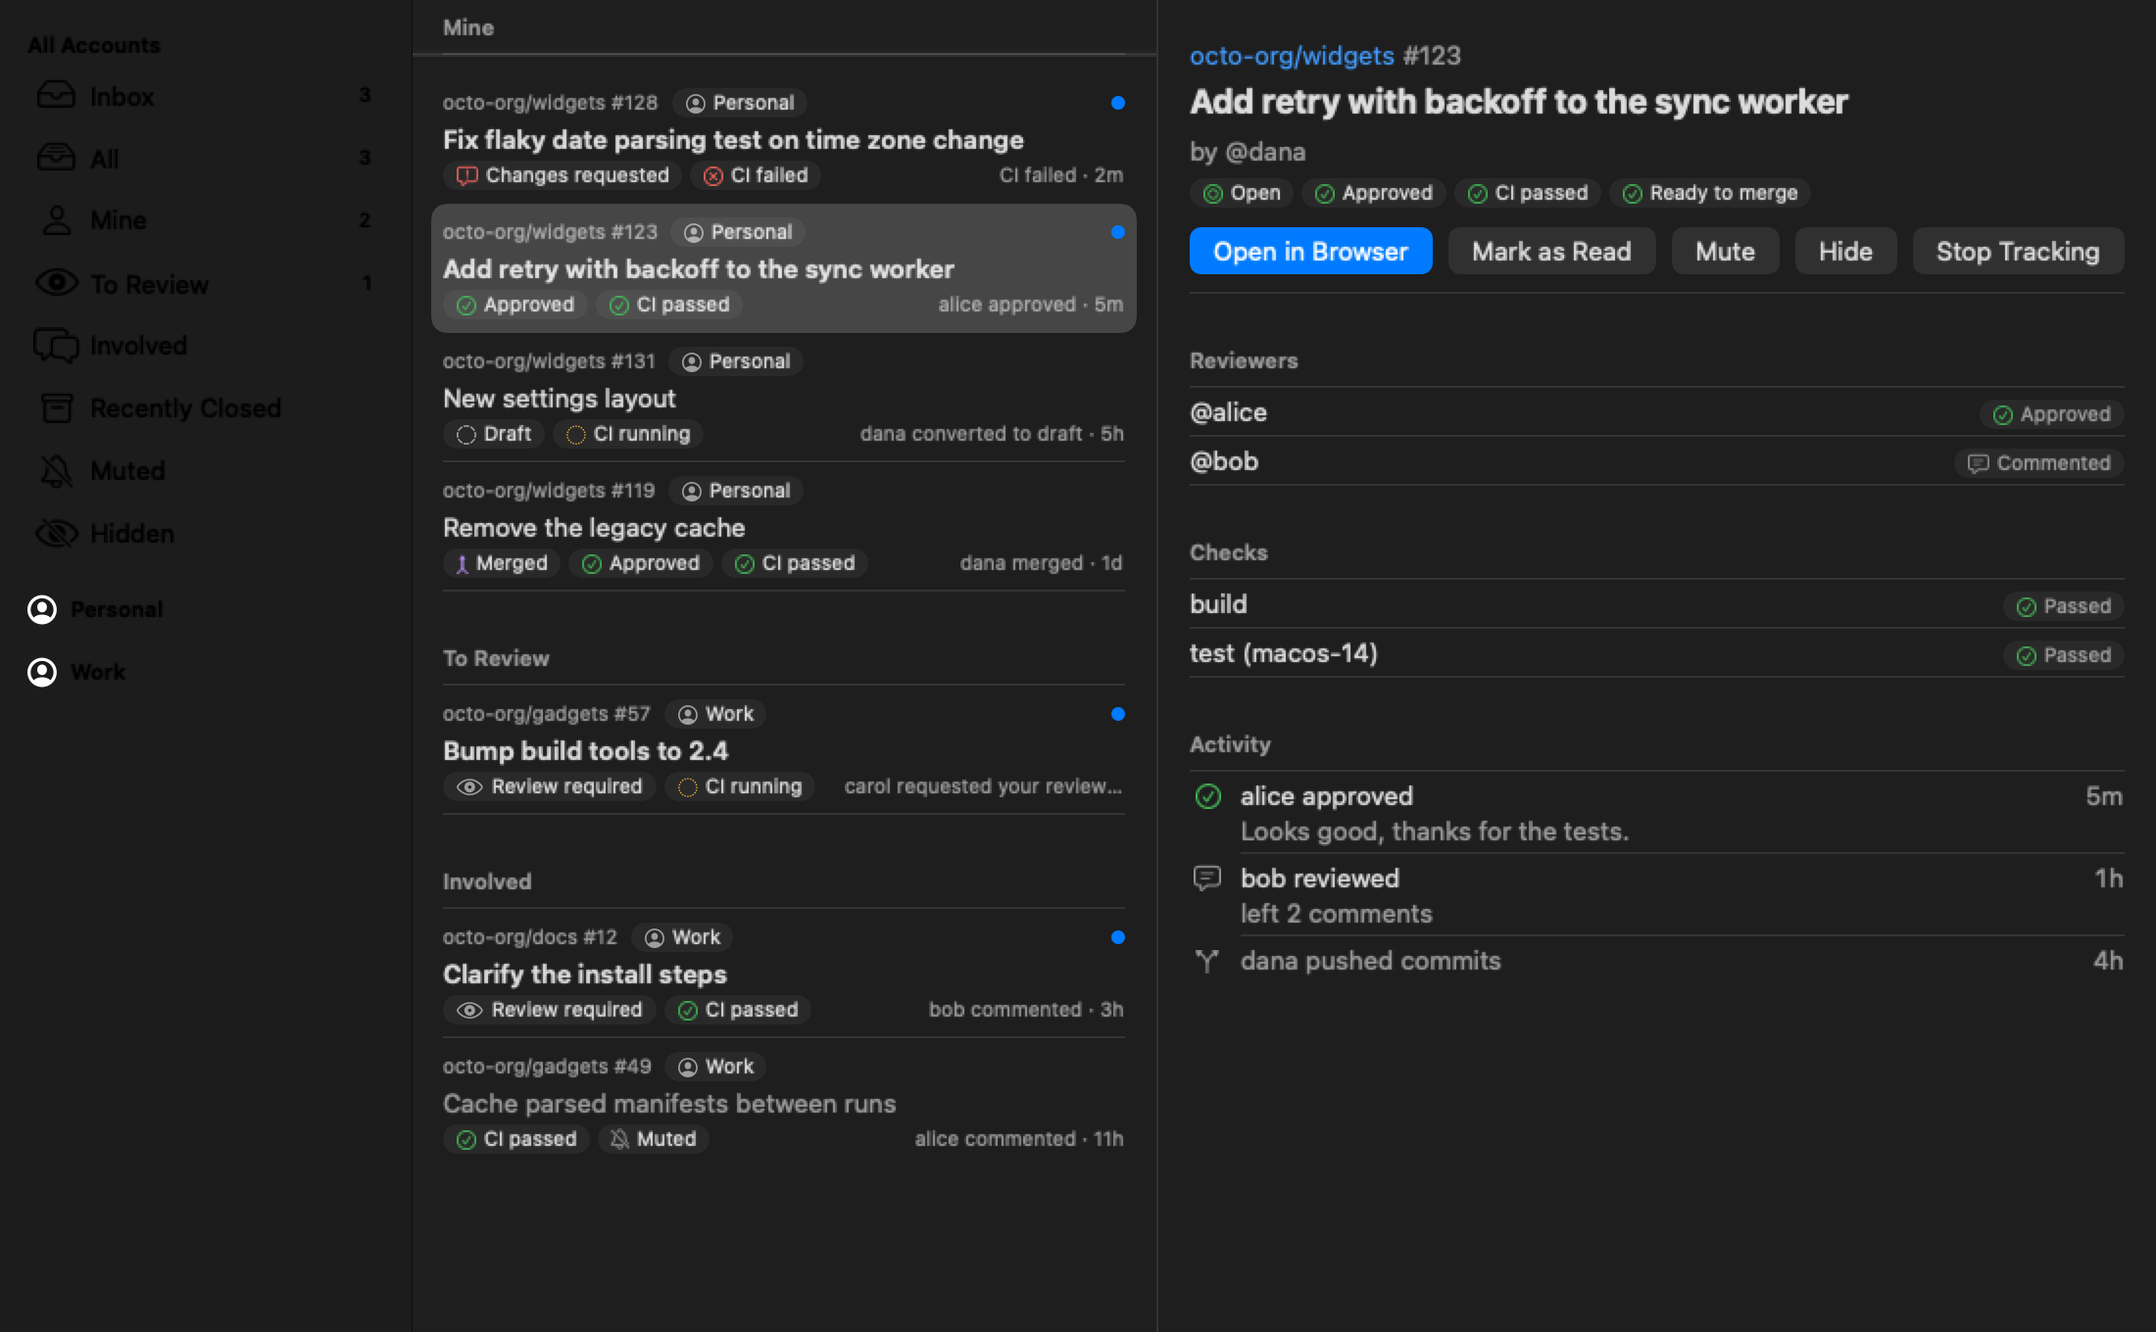
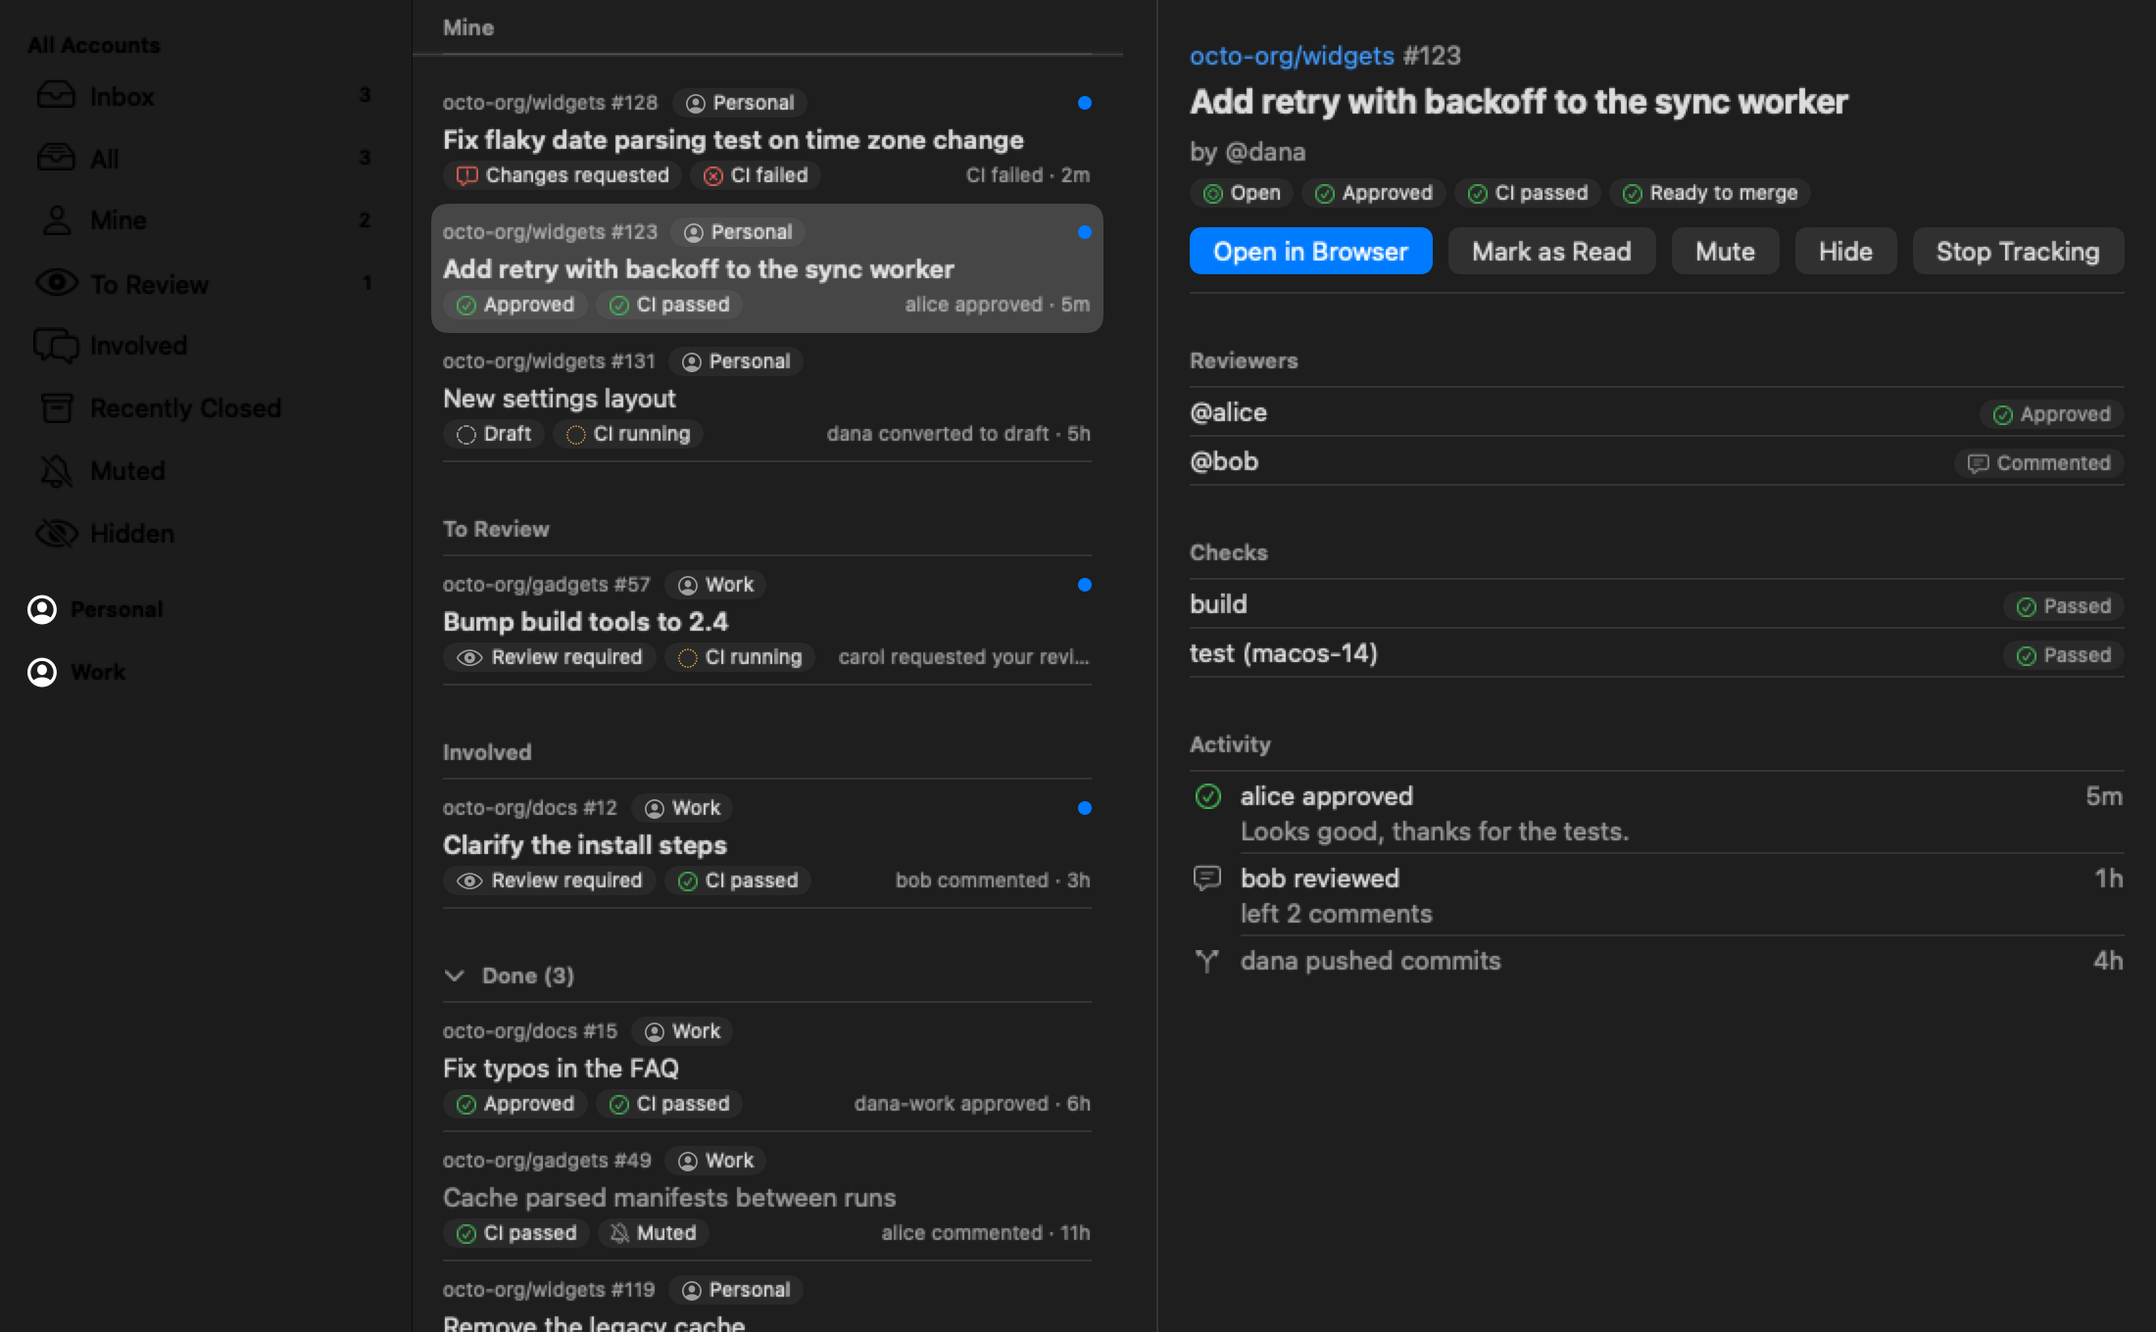
0.3.0: sort by what needs you, Done group (#4)
Claude-Session: https://claude.ai/code/session_014uzkEWtF3b6UwepaCUwZvp

diff --git a/Tests/PullPingCoreTests/AttentionTests.swift b/Tests/PullPingCoreTests/AttentionTests.swift
@@ -98,6 +98,55 @@ final class AttentionTests: XCTestCase {
         XCTAssertEqual(Attention.breakdown([]), "")
     }
 
+    func testIsDone() {
+        var merged = pr(roles: [.author])
+        merged.state = .merged
+        XCTAssertTrue(Attention.isDone(merged))
+        var closed = pr(roles: [.reviewRequested], events: [(t0, false)])
+        closed.state = .closed
+        XCTAssertTrue(Attention.isDone(closed))
+
+        var reviewed = pr(roles: [.reviewer], events: [(t0, true), (t0.addingTimeInterval(10), false)])
+        reviewed.lastReadAt = t0.addingTimeInterval(10)
+        XCTAssertTrue(Attention.isDone(reviewed))  // others' PR, reviewed, all read
+        reviewed.events.append(PREvent(id: "new", prID: "PR_1", kind: .comment, actor: "bob", at: t0.addingTimeInterval(20), summary: "", url: nil, isOwn: false))
+        XCTAssertFalse(Attention.isDone(reviewed))  // an unread comment keeps it active
+
+        XCTAssertFalse(Attention.isDone(pr(roles: [.author])))  // my open PR
+        XCTAssertFalse(Attention.isDone(pr(roles: [.assigned])))
+        XCTAssertFalse(Attention.isDone(pr(roles: [.teamReviewRequested])))
+        var draft = pr(roles: [.reviewRequested])
+        draft.isDraft = true
+        XCTAssertFalse(Attention.isDone(draft))  // a request stays active even while the PR is a draft
+    }
+
+    func testSortedOrder() {
+        func at(_ p: TrackedPR, _ seconds: Double, number: Int) -> TrackedPR {
+            var p = p
+            p.updatedAt = t0.addingTimeInterval(seconds)
+            p.number = number
+            return p
+        }
+        let review = at(pr("review", roles: [.reviewRequested]), 0, number: 1)  // needs me, oldest
+        let unread = at(pr("unread", roles: [.commenter], events: [(t0, false)]), 10, number: 2)
+        let recent = at(pr("recent", roles: [.commenter]), 30, number: 3)
+        let older = at(pr("older", roles: [.commenter]), 20, number: 4)
+        let tieLow = at(pr("tieLow", roles: [.commenter]), 5, number: 5), tieHigh = at(pr("tieHigh", roles: [.commenter]), 5, number: 6)
+        let ids = Attention.sorted([tieLow, older, recent, unread, tieHigh, review]).map(\.id)
+        XCTAssertEqual(ids, ["review", "unread", "recent", "older", "tieHigh", "tieLow"])
+
+        // A reason switched off in Settings no longer ranks first, but an awaited review still counts as unread.
+        XCTAssertEqual(Attention.sorted([unread, review], counting: [.ciFailed]).map(\.id), ["unread", "review"])
+
+        // Done: latest activity (closed or updated) first, unread or not.
+        var mergedOld = at(pr("mergedOld", roles: [.author], events: [(t0.addingTimeInterval(100), false)]), 0, number: 7)
+        mergedOld.state = .merged
+        var closedNew = at(pr("closedNew", roles: [.author]), 0, number: 8)
+        closedNew.state = .closed
+        closedNew.closedAt = t0.addingTimeInterval(200)
+        XCTAssertEqual(Attention.sorted([mergedOld, closedNew]).map(\.id), ["closedNew", "mergedOld"])
+    }
+
     func testBadgeModesAndHidden() {
         let id = UUID()
         var hidden = pr("H", account: id, roles: [.reviewRequested])

diff --git a/Sources/PullPing/MainView.swift b/Sources/PullPing/MainView.swift
@@ -94,6 +94,7 @@ struct Avatar: View {
 struct PRListView: View {
     @Bindable var store: Store
     @Binding var query: String
+    @AppStorage(DefaultsKey.showDone) private var showDone = true
 
     private var rows: [TrackedPR] {
         let item = store.listSelection
@@ -106,11 +107,29 @@ struct PRListView: View {
     var body: some View {
         let rows = rows
         let filter = store.listSelection.filter
+        let done = filter.splitsDone ? rows.filter(Attention.isDone) : []
+        let active = filter.splitsDone ? rows.filter { !Attention.isDone($0) } : rows
         List(selection: $store.selectedID) {
             ForEach(store.errorAccounts) { account in  // FLW-17: inline, with the fix one click away
                 AccountErrorRow(account: account, status: store.statuses[account.id] ?? .ok)
             }
-            PRRows(store: store, prs: rows, sectioned: filter == .inbox)
+            if active.isEmpty && !done.isEmpty && query.isEmpty {
+                EmptyState(store: store, filter: filter, done: true).frame(maxWidth: .infinity).padding(.vertical, 24)
+            }
+            PRRows(store: store, prs: active, sectioned: filter == .inbox)
+            if !done.isEmpty {
+                // This list style draws no disclosure for collapsible sections, so the header is the toggle.
+                Section(isExpanded: $showDone) {
+                    PRRows(store: store, prs: done, sectioned: false)
+                } header: {
+                    Button { showDone.toggle() } label: {
+                        Label("Done (\(done.count))", systemImage: showDone ? "chevron.down" : "chevron.right")
+                            .contentShape(Rectangle())
+                    }
+                    .buttonStyle(.plain)
+                    .accessibilityValue(showDone ? "Expanded" : "Collapsed")
+                }
+            }
         }
         .onChange(of: rows.map(\.id), initial: true) { _, ids in  // the detail never shows a row the list doesn't
             if let id = store.selectedID, !ids.contains(id) { store.selectedID = nil }
@@ -169,9 +188,14 @@ struct AccountErrorRow: View {
 struct EmptyState: View {
     let store: Store
     var filter: Filter = .all
+    /// The list has only Done pull requests (shown below this).
+    var done = false
 
     var body: some View {
-        if store.accounts.isEmpty {
+        if done {
+            ContentUnavailableView("Nothing Needs You", systemImage: "checkmark.circle",
+                                   description: Text("Pull requests with nothing left for you are in Done."))
+        } else if store.accounts.isEmpty {
             ContentUnavailableView {
                 Label("No Accounts", systemImage: "person.crop.circle.badge.plus")
             } description: {

diff --git a/Sources/PullPing/StatusPanelView.swift b/Sources/PullPing/StatusPanelView.swift
@@ -7,6 +7,7 @@ struct StatusPanelView: View {
     let store: Store
     @State private var selection: String?
     @State private var showHidden = false
+    @State private var showDone = false
     @FocusState private var listFocused: Bool
     @AppStorage(DefaultsKey.panelFilter) private var filter = Filter.inbox
     /// Account id, empty = All Accounts; `Store.panelScope` resolves it.
@@ -132,19 +133,19 @@ struct StatusPanelView: View {
 
     @ViewBuilder private func content(_ scope: Scope) -> some View {
         let prs = store.prs(scope, filter)
+        let done = filter.splitsDone ? prs.filter(Attention.isDone) : []
+        let active = filter.splitsDone ? prs.filter { !Attention.isDone($0) } : prs
         let hidden = filter == .hidden ? [] : store.prs(scope, .hidden)
         if prs.isEmpty && hidden.isEmpty {
             EmptyState(store: store, filter: filter).frame(maxWidth: .infinity, maxHeight: .infinity)
         } else {
             List(selection: $selection) {
-                PRRows(store: store, prs: prs, sectioned: filter == .inbox)
-                if !hidden.isEmpty {
-                    Section(isExpanded: $showHidden) {
-                        PRRows(store: store, prs: hidden, sectioned: false)
-                    } header: {
-                        Text("Hidden (\(hidden.count))")
-                    }
+                if active.isEmpty && !done.isEmpty {
+                    EmptyState(store: store, filter: filter, done: true).frame(maxWidth: .infinity).padding(.vertical, 16)
                 }
+                PRRows(store: store, prs: active, sectioned: filter == .inbox)
+                collapsed("Done", done, $showDone)
+                collapsed("Hidden", hidden, $showHidden)
             }
             .listStyle(.sidebar)
             .onChange(of: (prs + hidden).map(\.id)) { _, ids in  // never act on a row the list no longer shows
@@ -162,6 +163,17 @@ struct StatusPanelView: View {
                 return .handled
             }
             .onAppear { listFocused = true }
+        }
+    }
+
+    /// "Done (3)", "Hidden (2)": collapsed until opened; nothing when empty.
+    @ViewBuilder private func collapsed(_ title: String, _ prs: [TrackedPR], _ isExpanded: Binding<Bool>) -> some View {
+        if !prs.isEmpty {
+            Section(isExpanded: isExpanded) {
+                PRRows(store: store, prs: prs, sectioned: false)
+            } header: {
+                Text("\(title) (\(prs.count))")
+            }
         }
     }
 }

diff --git a/Sources/PullPingCore/Attention.swift b/Sources/PullPingCore/Attention.swift
@@ -66,6 +66,30 @@ public enum Attention {
         }
     }
 
+    /// Nothing left for me: merged or closed, or open and not mine, not assigned to me, no review asked of me or my team,
+    /// nothing unread. Ignores the badge settings, so a switched-off reason never moves a request into Done.
+    public static func isDone(_ pr: TrackedPR) -> Bool {
+        guard pr.state == .open else { return true }
+        return pr.roles.isDisjoint(with: [.author, .assigned, .reviewRequested, .teamReviewRequested])
+            && unread(pr) == 0 && !awaitingMyReview(pr)
+    }
+
+    /// Latest of updated, closed and the newest event.
+    public static func lastActivity(_ pr: TrackedPR) -> Date {
+        max(pr.updatedAt, pr.closedAt ?? .distantPast, pr.events.map(\.at).max() ?? .distantPast)
+    }
+
+    /// The one list order: needs me, then unread (`isAttention`), then latest activity; ties by number, highest first.
+    /// Done pull requests rank by activity alone.
+    public static func sorted(_ prs: [TrackedPR], counting: Set<NeedReason> = Set(NeedReason.allCases)) -> [TrackedPR] {
+        prs.map { pr -> (TrackedPR, (Int, Date, Int, String)) in
+            let rank = isDone(pr) ? 0 : needsMe(pr, counting: counting) ? 2 : isAttention(pr) ? 1 : 0
+            return (pr, (rank, lastActivity(pr), pr.number, pr.id))  // id: a stable order when numbers tie across repos
+        }
+        .sorted { $0.1 > $1.1 }
+        .map(\.0)
+    }
+
     public static func group(_ pr: TrackedPR) -> PRGroup {
         if pr.roles.contains(.author) { return .mine }
         return awaitingMyReview(pr) ? .toReview : .involved

diff --git a/Sources/PullPing/Store.swift b/Sources/PullPing/Store.swift
@@ -32,6 +32,9 @@ enum Filter: String, CaseIterable {
         }
     }
 
+    /// Lists that show active rows first and Done pull requests (`Attention.isDone`) in their own group below.
+    var splitsDone: Bool { ![.recentlyClosed, .muted, .hidden].contains(self) }
+
     /// Inbox and All hold the same rows; Inbox shows them in Mine · To Review · Involved sections.
     func matches(_ pr: TrackedPR) -> Bool {
         guard self != .hidden else { return pr.hidden }
@@ -199,14 +202,10 @@ final class Store {
 
     var enabledIDs: Set<UUID> { Set(accounts.filter(\.enabled).map(\.id)) }
 
-    /// PRs of enabled accounts: attention first, then open before closed, newest first.
+    /// PRs of enabled accounts in `Attention.sorted` order.
     var prs: [TrackedPR] {
         let enabled = enabledIDs
-        return tracked.prs.values.filter { enabled.contains($0.accountID) }.sorted {
-            let a = (Attention.isAttention($0), $0.state == .open), b = (Attention.isAttention($1), $1.state == .open)
-            if a != b { return a.0 != b.0 ? a.0 : a.1 }
-            return $0.updatedAt > $1.updatedAt
-        }
+        return Attention.sorted(tracked.prs.values.filter { enabled.contains($0.accountID) }, counting: settings.badgeReasons)
     }
 
     /// The menu-bar number (Settings > General > Menu bar count).

diff --git a/Sources/PullPing/Fixtures.swift b/Sources/PullPing/Fixtures.swift
@@ -95,6 +95,12 @@ enum Fixtures {
                 $0.ci = .success
                 $0.events = [event("E10", "PR_7", .merged, "dana", 1500, "", own: true)]
             },
+            pr("PR_8", work, "octo-org/docs", 15, "Fix typos in the FAQ", author: "erin", roles: [.reviewer]) {  // reviewed, nothing unread: Done
+                $0.reviewDecision = "APPROVED"
+                $0.ci = .success
+                $0.reviewers = [ReviewSummary(login: "dana-work", state: "APPROVED", submittedAt: ago(400), requested: false)]
+                $0.events = [event("E11", "PR_8", .reviewApproved, "dana-work", 400, "", own: true)]
+            },
         ]
     }
 }

diff --git a/Sources/PullPingCore/Settings.swift b/Sources/PullPingCore/Settings.swift
@@ -111,6 +111,8 @@ public enum DefaultsKey {
     /// Status panel: last filter and account (empty = All Accounts).
     public static let panelFilter = "panelFilter"
     public static let panelAccount = "panelAccount"
+    /// Main window: the Done section is expanded.
+    public static let showDone = "showDone"
 }
 
 extension Account {

diff --git a/README.md b/README.md
@@ -39,9 +39,9 @@ brew install --cask roypadina/tap/pullping
 
 - **Every pull request you are involved in, in one place.** Ones you opened, ones assigned to you, ones where your review is requested (directly or through a team), and ones where you commented, reviewed or were mentioned. Merged and closed ones stay listed for a few days.
 - **Several GitHub accounts at once.** Personal and work, each with its own token and a label you choose.
-- **Menu-bar panel.** Your pull requests in three groups (Mine, To Review, Involved), with CI status, review state, an unread dot and the latest activity on each row. Switch between All accounts and each account, and filter (Inbox, All, Mine, To Review, Involved, Recently Closed, Muted, Hidden). Right-click the icon for Refresh, Mark All as Read, Pause Notifications, Settings and Quit.
+- **Menu-bar panel.** Your pull requests in three groups (Mine, To Review, Involved), with CI status, review state, an unread dot and the latest activity on each row. What needs you comes first, then unread, then the most recently active; pull requests with nothing left for you (merged, closed, or read with no review asked of you) wait in a collapsed Done group at the bottom. Switch between All accounts and each account, and filter (Inbox, All, Mine, To Review, Involved, Recently Closed, Muted, Hidden). Right-click the icon for Refresh, Mark All as Read, Pause Notifications, Settings and Quit.
 - **A count that means something.** By default the menu-bar number counts only pull requests that need you: review requests, unread mentions, and your own pull requests with changes requested, failed CI, new comments, or ready to merge. The panel header spells it out ("2 to review · 1 ready to merge"). Settings → General → Count in the Menu Bar picks which of these count (team review requests have their own switch), or count everything unread, or show no number.
-- **Main window.** Mail-style sidebar: the same filters for All Accounts and for each account, with counts, then search and a detail view with reviewers, checks and the recent activity of the selected pull request. Prefer one inbox per account? Settings → General → Inbox → Per account.
+- **Main window.** Mail-style sidebar: the same filters for All Accounts and for each account, with counts, then the same order with a collapsible Done section at the bottom of the list, search and a detail view with reviewers, checks and the recent activity of the selected pull request. Prefer one inbox per account? Settings → General → Inbox → Per account.
 - **Phone notifications** through [ntfy](https://ntfy.sh), chosen per kind of event, separately from the desktop panels.
 - **Notifications that stay out of your way.** A small panel appears at the top right, never takes keyboard focus, and is grouped per pull request. Pick Off, Banner (hides itself) or Alert (stays) for each kind of event.
 - **Review reminders.** While your review is requested, PullPing nudges you again every so often until you review, the request is removed, or the pull request is merged or closed.

diff --git a/CHANGELOG.md b/CHANGELOG.md
@@ -7,6 +7,12 @@ and this project adheres to [Semantic Versioning](https://semver.org/spec/v2.0.0
 
 ## [Unreleased]
 
+## [0.3.0] - 2026-10-30
+
+### Changed
+- Lists are sorted by what needs you: pull requests waiting on you first, then ones with unread activity, then the most recently active. The panel, the main window and every filter use the same order.
+- Pull requests with nothing left for you move to a **Done** group at the bottom: merged or closed ones, and others' pull requests you're only involved in once everything is read and no review is asked of you or your team. In the panel Done is collapsed, like Hidden; in the main window it's a section you can collapse, and PullPing remembers your choice.
+
 ## [0.2.0] - 2026-10-30
 
 ### Added
